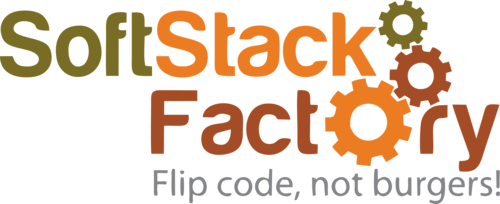
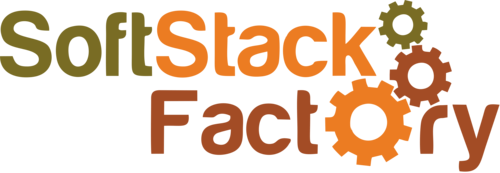
Develop (#36)
* Adjusted the double eighth note location in mission section, and reoved unnecessary code

* offset the first two section images to look better with devices with a width between 981px and 1375px (#32)

* Integrated a zoom magnifier feature for images (#34)

* Removed softstack slogan from copyright logo (#35)

diff --git a/src/pages/index.js b/src/pages/index.js
@@ -17,6 +17,9 @@ import performerClientImage from '../assets/images/performer-client.png';
 import requesterClientTopUpImage from '../assets/images/requester-client-top-up.png';
 import requesterClientStreamImage from '../assets/images/requester-client-twitch-stream.png';
 import config from '../../config';
+
+import Magnifier from 'react-magnifier';
+
 const IndexPage = () => (
   <Layout>
     <section id="banner">
@@ -55,11 +58,15 @@ const IndexPage = () => (
     </section>
 
     <section className="spotlight primary-color">
-      <div className="image">
-        <img
-          id="performer"
+      <div className="image remove-unnecessary-space">
+        <Magnifier
+          alt="Performer using the My Request performer client"
           src={performerImage}
-          alt="My Request Requester client presenting top up feature"
+          mgWidth={350}
+          mgHeight={350}
+          mgTouchOffsetX={-30}
+          mgTouchOffsetY={-30}
+          zoomFactor={1.4
         />
       </div>
       <div className="content">
@@ -94,11 +101,15 @@ const IndexPage = () => (
 
     <section id="two" className="wrapper alt style2">
       <section className="spotlight">
-        <div className="image">
-          <img
+        <div className="image remove-unnecessary-space">
+          <Magnifier
             src={performerClientImage}
+            mgWidth={350}
+            mgHeight={350}
+            mgTouchOffsetX={-30}
+            mgTouchOffsetY={-30}
+            zoomFactor={0.6}
             alt="My Request performer client"
-            id="performer-client"
           />
         </div>
         <div className="content">
@@ -121,9 +132,14 @@ const IndexPage = () => (
         </div>
       </section>
       <section className="spotlight">
-        <div className="image">
-          <img
+        <div className="image remove-unnecessary-space">
+          <Magnifier
             src={requesterClientTopUpImage}
+            mgWidth={350}
+            mgHeight={350}
+            mgTouchOffsetX={-30}
+            mgTouchOffsetY={-30}
+            zoomFactor={0.6}
             alt="My Request Requester client presenting top up feature"
           />
         </div>
@@ -137,9 +153,14 @@ const IndexPage = () => (
         </div>
       </section>
       <section className="spotlight">
-        <div className="image">
-          <img
+        <div className="image remove-unnecessary-space-twitch">
+          <Magnifier
             src={requesterClientStreamImage}
+            mgWidth={350}
+            mgHeight={350}
+            mgTouchOffsetX={-30}
+            mgTouchOffsetY={-30}
+            zoomFactor={0.6}
             alt="My Request Requester client presenting streaming capabilities"
           />
         </div>

diff --git a/src/assets/sass/my-request-styles.scss b/src/assets/sass/my-request-styles.scss
@@ -80,6 +80,14 @@ img#eighth-note {
   left: 5px;
 }
 
+div.remove-unnecessary-space {
+  margin-bottom: -9px;
+}
+
+div.remove-unnecessary-space-twitch {
+  margin-bottom: -7px;
+}
+
 div.mission-right {
   display: flex;
   flex-direction: column;
@@ -121,8 +129,29 @@ div.join-beta-button {
   margin-left: 34px;
 }
 
+a#copyright-anchor {
+  text-decoration: none !important;
+  border-bottom-color: transparent;
+}
+
+a#copyright-anchor:link {
+  text-decoration: none !important;
+}
+
+a#copyright-anchor:visited {
+  text-decoration: none !important;
+}
+
+a#copyright-anchor:hover {
+  text-decoration: none !important;
+}
+
+a#copyright-anchor:active {
+  text-decoration: none !important;
+}
+
 img#copyright {
-  height: 100px;
+  height: 90px;
   width: 247px;
 }
 
@@ -152,7 +181,7 @@ h2.no-events-message {
   }
 
   img#copyright {
-    height: 50px;
+    height: 45px;
     width: 122px;
   }
 

diff --git a/src/components/Footer.js b/src/components/Footer.js
@@ -5,7 +5,13 @@ import copyrightImage from '../assets/images/softstack-factory-copyright.png';
 export default function Footer() {
   return (
     <footer id="footer">
-      <img src={copyrightImage} alt="copyright logo" id="copyright" />
+      <a
+        href="https://www.softstackfactory.com"
+        target="_blank"
+        id="copyright-anchor"
+      >
+        <img src={copyrightImage} alt="copyright logo" id="copyright" />
+      </a>
       <br />
       <br />
       <ul className="icons">
